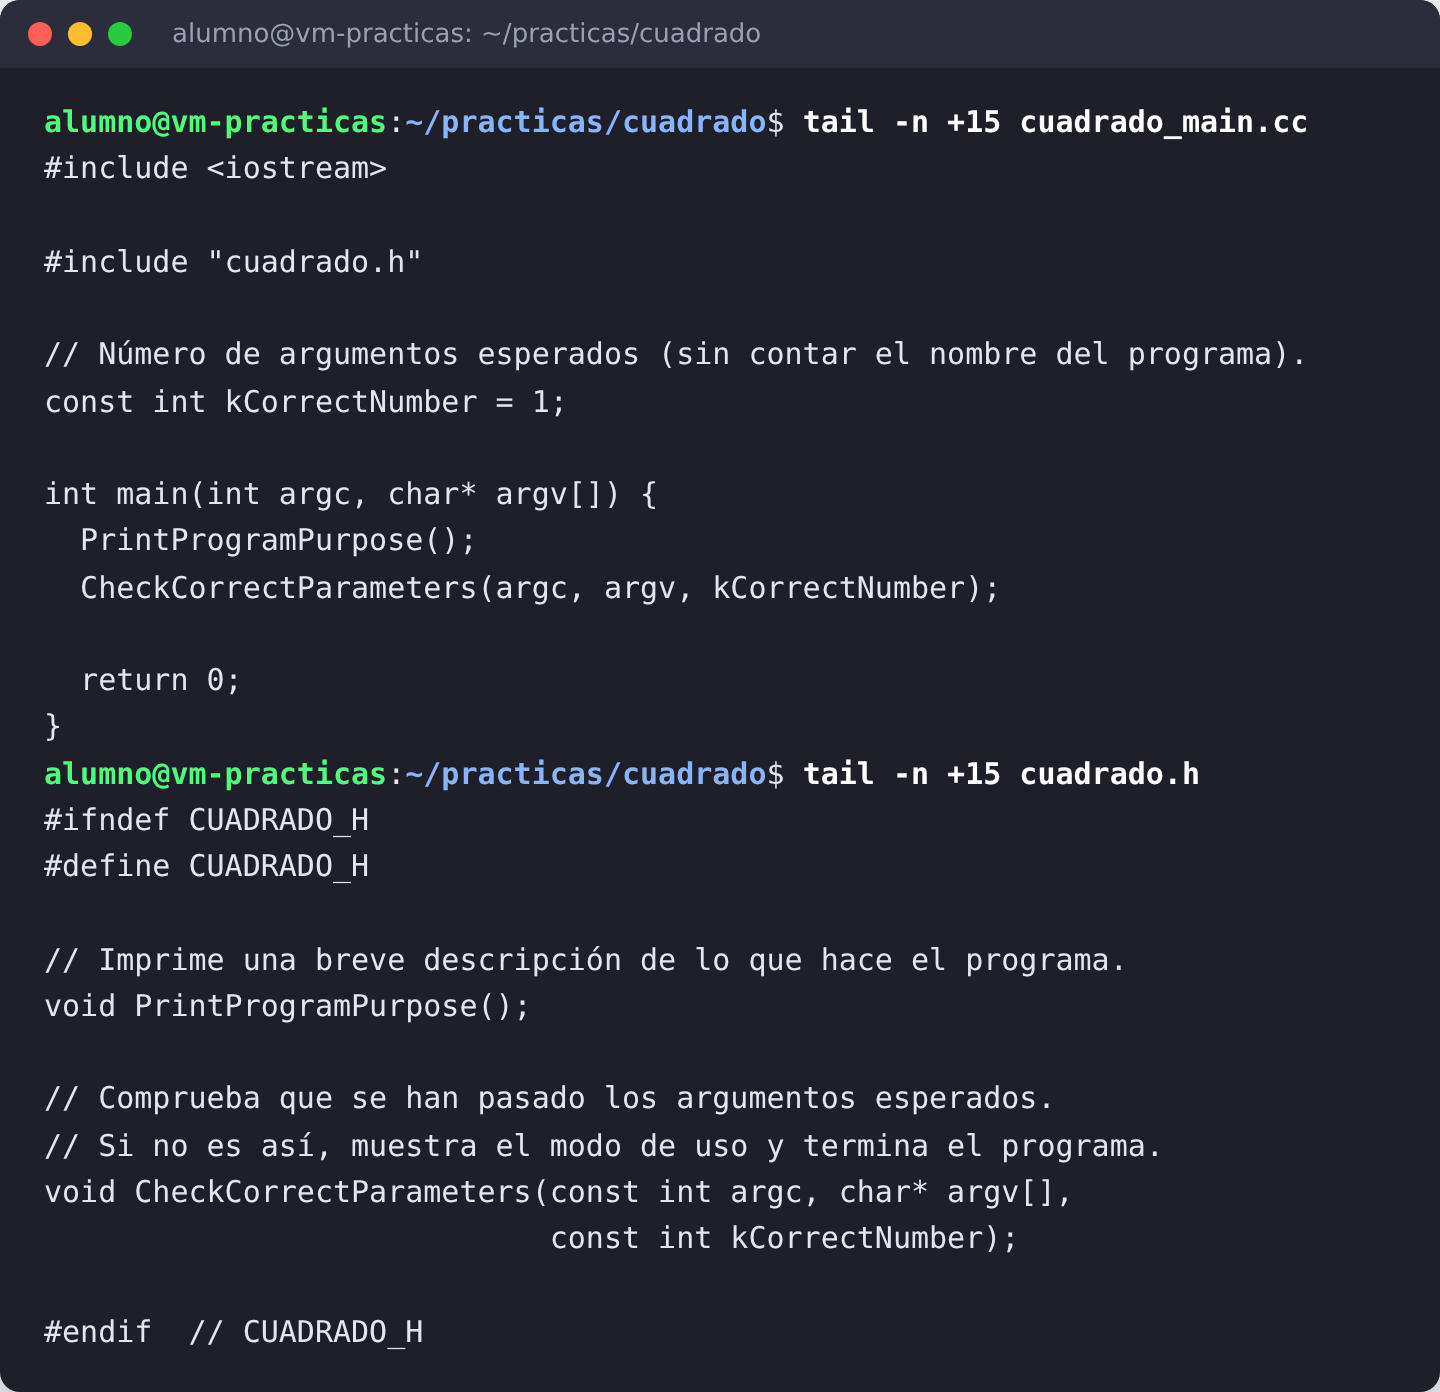
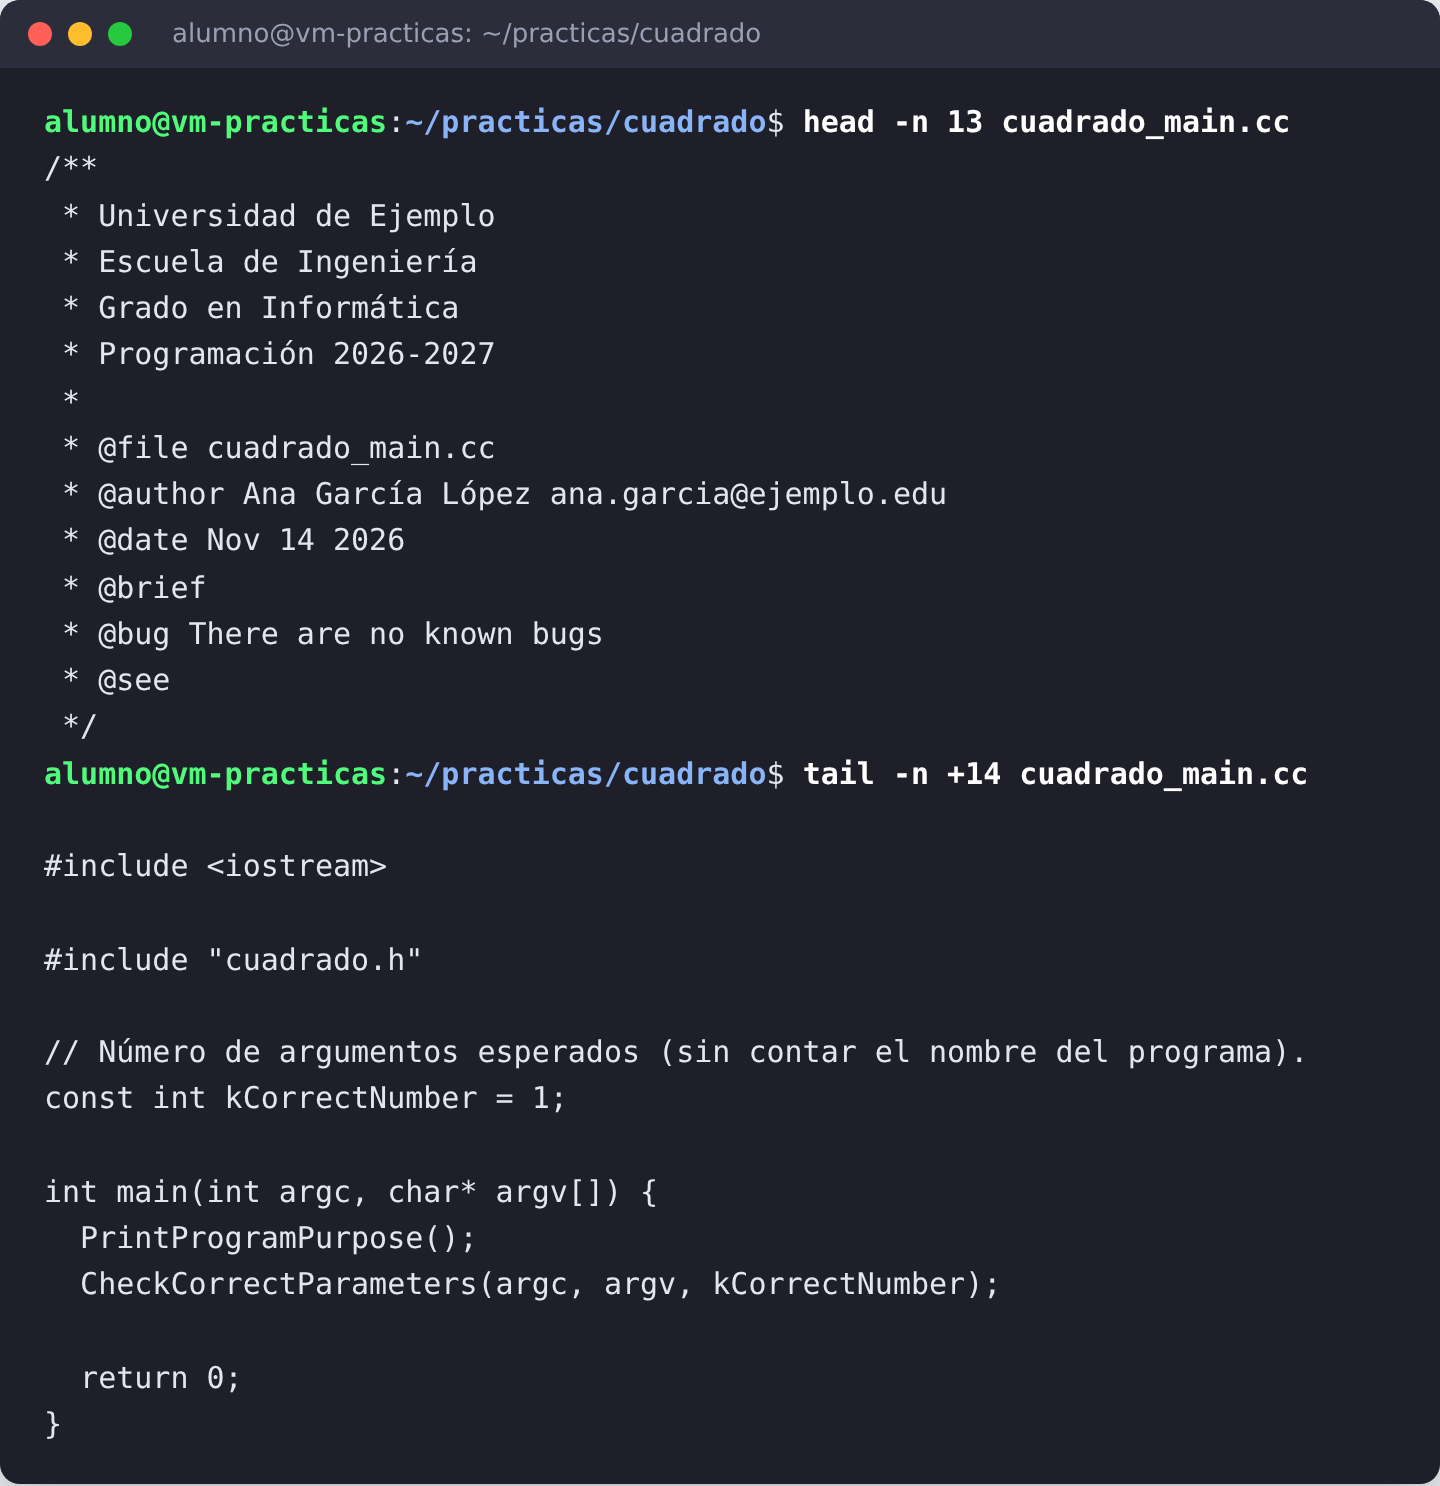
Capturas actualizadas con el perfil
Claude-Session: https://claude.ai/code/session_0146oa4DnHQhTndkTfSqoF8j

diff --git a/docs/genmake.md b/docs/genmake.md
@@ -44,6 +44,8 @@ Son dos funciones que sirven de plantilla para programas que reciben argumentos:
 
 El `main` generado ya las llama al principio:
 
+La cabecera sale de tu perfil, y el `main` ya llama a las funciones por defecto:
+
 ![Archivos generados](img/03-archivos.png)
 
 ## Qué archivos crea
